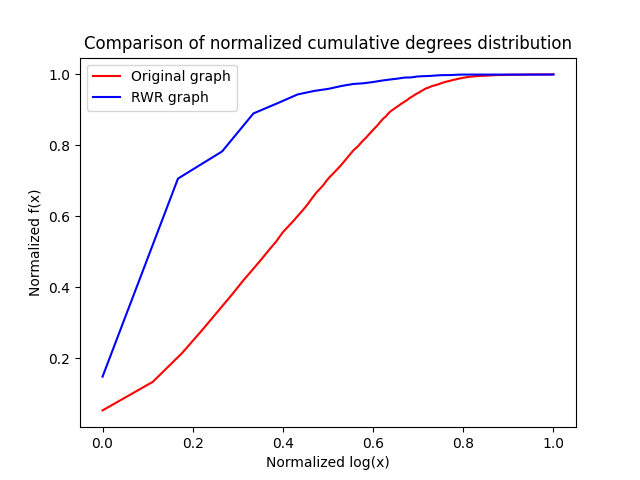
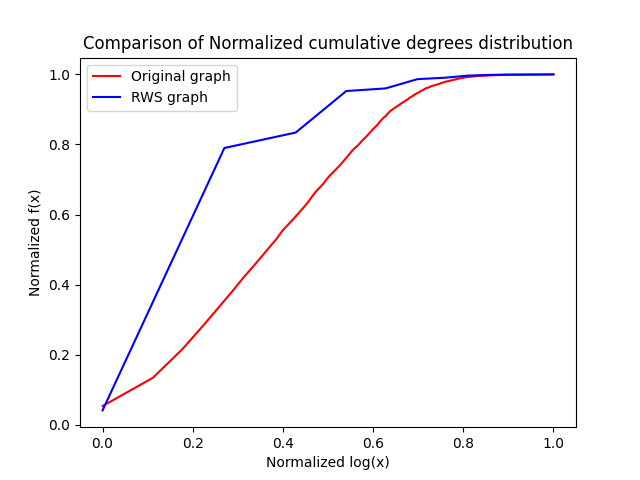
added some graphs

diff --git a/implementacni_ukol/graph/graph.py b/implementacni_ukol/graph/graph.py
@@ -1,12 +1,13 @@
 from collections import OrderedDict
 from math import log
-from typing import Dict, Set, Optional
+from typing import Dict, Set, Optional, Union, List, Iterable
 
 import matplotlib.pyplot as plt
 
 class Graph:
     def __init__(self):
         self._nodes_adjs: Dict[str, Set] = {}
+        self.graph_color = "red"
 
     @property
     def name(self):
@@ -116,9 +117,7 @@ class Graph:
             return cumulative_deg
         return distribution
 
-    def normalize_distribution(self, parameter, type_: Optional[str], logarithmic=True):
-        data = getattr(self, f"get_distribution")(parameter, type_)
-
+    def normalize_distribution(self, data, logarithmic=True):
         normalized = OrderedDict()
 
         maximum_x = max(data.keys())
@@ -137,16 +136,35 @@ class Graph:
 
         return normalized
 
-    def compare_distributions(self, other, parameter: str, type_: Optional[str] = None, logarithmic=True):
-        normalized_sample = self.normalize_distribution(parameter, type_, logarithmic)
-        normalized_other = other.normalize_distribution(parameter, type_, logarithmic)
+    def compare_distributions(self, other, parameter: str, type_: Optional[str] = None, normalize=True, logarithmic=True):
+        first_distribution = self.get_distribution(parameter, type_)
+        second_distribution = other.get_distribution(parameter, type_)
 
-        plt.plot(normalized_other.keys(), normalized_other.values(), color="red", label=other.name)
-        plt.plot(normalized_sample.keys(), normalized_sample.values(), color="blue", label=self.name)
+        if normalize:
+            first_distribution = self.normalize_distribution(first_distribution, logarithmic)
+            second_distribution = other.normalize_distribution(second_distribution, logarithmic)
 
-        plt.title(f"Comparison of normalized {type_ + ' ' if type_ else ''}{parameter.replace('_', ' ')} distribution")
-        plt.xlabel("Normalized log(x)")
-        plt.ylabel("Normalized f(x)")
+        plt.plot(second_distribution.keys(), second_distribution.values(), color=other.graph_color, label=other.name)
+        plt.plot(first_distribution.keys(), first_distribution.values(), color=self.graph_color, label=self.name)
+
+        plt.title(f"Comparison of {'Normalized ' if normalize else ''}{type_ + ' ' if type_ else ''}{parameter.replace('_', ' ')} distribution")  # noqa
+        plt.xlabel(f"{'Normalized ' if normalize else ''}{'log(x)' if logarithmic else 'x'}")
+        plt.ylabel(f"{'Normalized ' if normalize else ''}f(x)")
         plt.legend(loc="best")
         plt.savefig(f"images/{type_ + '_' if type_ else ''}{parameter}_distribution.png")
         plt.clf()
+
+    def plot_distribution(self, parameter, type_: Optional[str] = None):
+        distribution = self.get_distribution(parameter, type_)
+
+        filename = f"images/{self.name} {type_ + '_' if type_ else ''}{parameter}_distribution.png"
+        plt.plot(distribution.keys(), distribution.values(), color="red", label=self.name)
+        plt.title(f"{type_ + ' ' if type_ else ''}{parameter.replace('_', ' ')} distribution")  # noqa
+        plt.xlabel("x")
+        plt.ylabel("f(x)")
+        plt.legend(loc="best")
+
+        plt.savefig(filename)
+        plt.clf()
+
+        return filename

diff --git a/analyticky_ukol/main.py b/analyticky_ukol/main.py
@@ -4,5 +4,5 @@ graph = MultiLayerGraph(filename="data/data.txt")
 
 layer = graph.layers["1"]
 
-print(layer.get_distribution("component_sizes"))
-print(layer.get_distribution("component_sizes", "cumulative"))
+layer.plot_distribution("component_sizes")
+layer.plot_distribution("component_sizes", "cumulative")

diff --git a/implementacni_ukol/samplers/rwsampler.py b/implementacni_ukol/samplers/rwsampler.py
@@ -10,6 +10,7 @@ class RWSampler(Graph):
     def __init__(self, data: OriginalGraph):
         super().__init__()
         self._data_interface = data
+        self.graph_color = "blue"
 
     @property
     def name(self):
